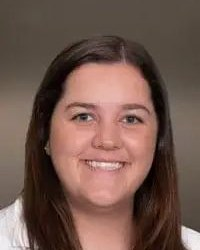
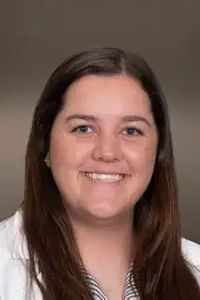
Use the team's original photos at full quality
The 34 specialist portraits are now the untouched originals from
SH_Health_Team_Photos (no crop, resize or re-compression; PNG, JPG and
WebP kept as supplied). Portraits are delivered at quality 90 and
framed with object-position so faces stay in view.

diff --git a/src/app/(frontend)/(site)/page.tsx b/src/app/(frontend)/(site)/page.tsx
@@ -282,7 +282,7 @@ export default async function Home() {
           <div className="spec-feature">
             {lead ? (
               <Link href={`/specialists/${lead.slug}`} className="spec-lead">
-                <Img media={media(lead.photo)} alt={lead.name} sizes="(max-width: 900px) 100vw, 620px" />
+                <Img media={media(lead.photo)} alt={lead.name} quality={90} sizes="(max-width: 900px) 100vw, 620px" />
                 <div className="stack" style={{ gap: 14, padding: 32 }}>
                   <p className="eyebrow">ENT · Head &amp; neck surgery</p>
                   <p className="serif" style={{ margin: 0, fontSize: 36, lineHeight: 1.08 }}>
@@ -304,7 +304,7 @@ export default async function Home() {
             <div className="spec-grid">
               {portraits.map((s) => (
                 <Link key={s!.id} href={`/specialists/${s!.slug}`} className="person">
-                  <Img media={media(s!.photo)} alt={s!.name} className="portrait" sizes="(max-width: 680px) 50vw, 240px" />
+                  <Img media={media(s!.photo)} alt={s!.name} className="portrait" quality={90} sizes="(max-width: 680px) 50vw, 240px" />
                   <span className="name" style={{ fontSize: 20 }}>
                     {s!.name}
                   </span>

diff --git a/src/app/(frontend)/(site)/specialists/[slug]/page.tsx b/src/app/(frontend)/(site)/specialists/[slug]/page.tsx
@@ -83,7 +83,7 @@ export default async function SpecialistProfile({ params }: Props) {
           </nav>
           <div className="profile-hero">
             <div className="portrait-frame">
-              {media(s.photo) ? <Img media={media(s.photo)} alt={`Portrait of ${s.name}`} sizes="(max-width: 900px) 100vw, 400px" priority /> : <div className="person"><Initials name={s.name} /></div>}
+              {media(s.photo) ? <Img media={media(s.photo)} alt={`Portrait of ${s.name}`} quality={90} sizes="(max-width: 900px) 100vw, 400px" priority /> : <div className="person"><Initials name={s.name} /></div>}
             </div>
             <div className="stack" style={{ gap: 20 }}>
               {depts.length ? <p className="eyebrow">{depts.map((d) => d.name).join(' · ')}</p> : null}

diff --git a/src/app/(frontend)/globals.css b/src/app/(frontend)/globals.css
@@ -1080,6 +1080,8 @@ a.card:hover {
   height: auto;
   aspect-ratio: 294 / 320;
   object-fit: cover;
+  /* uncropped headshots: keep the face, trim from the bottom */
+  object-position: center 18%;
   border-radius: 22px;
 }
 .person .mono {
@@ -1860,6 +1862,7 @@ a.card:hover {
   width: 100%;
   height: 380px;
   object-fit: cover;
+  object-position: center 20%;
   object-position: center 25%;
 }
 .spec-grid {
@@ -2320,6 +2323,7 @@ a.card:hover {
   height: auto;
   aspect-ratio: 4 / 5;
   object-fit: cover;
+  object-position: center 18%;
   border-radius: 22px;
 }
 .profile-facts {

diff --git a/src/components/sections.tsx b/src/components/sections.tsx
@@ -421,7 +421,7 @@ export function TeamGrid({ people, empty }: { people: Specialist[]; empty?: stri
         return (
           <Link key={p.id} href={`/specialists/${p.slug}`} className="person">
             {media(p.photo) ? (
-              <Img media={media(p.photo)} alt={p.name} className="portrait" sizes="(max-width: 680px) 50vw, 300px" />
+              <Img media={media(p.photo)} alt={p.name} className="portrait" quality={90} sizes="(max-width: 680px) 50vw, 300px" />
             ) : (
               <Initials name={p.name} />
             )}

diff --git a/src/components/ui.tsx b/src/components/ui.tsx
@@ -20,6 +20,7 @@ export function Img({
   className,
   position,
   priority,
+  quality,
 }: {
   media: Media | null
   alt?: string
@@ -27,6 +28,7 @@ export function Img({
   className?: string
   position?: string | null
   priority?: boolean
+  quality?: number
 }) {
   if (!media?.url) return null
   return (
@@ -38,6 +40,7 @@ export function Img({
       sizes={sizes}
       className={className}
       priority={priority}
+      quality={quality}
       style={position ? { objectPosition: position } : undefined}
     />
   )
